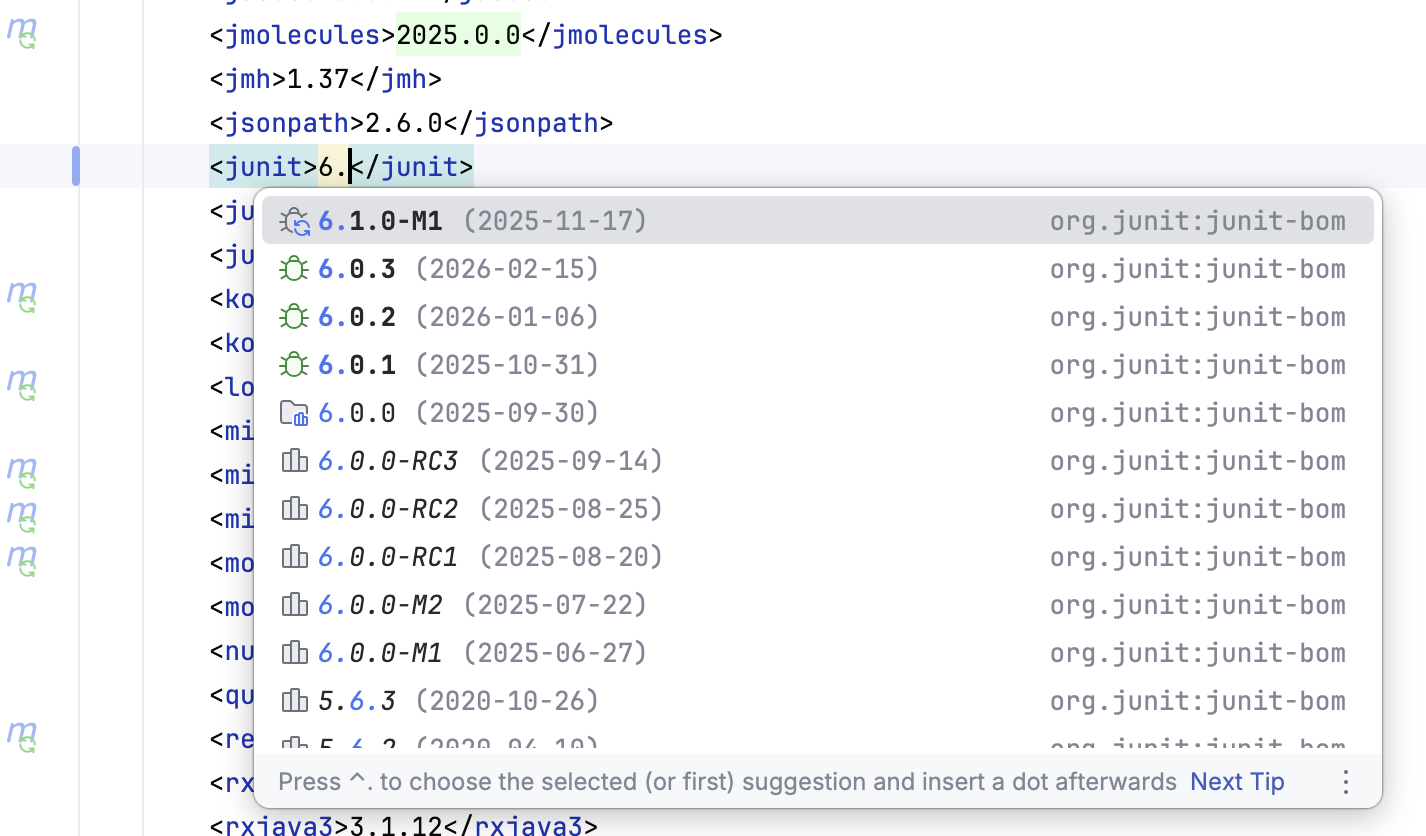
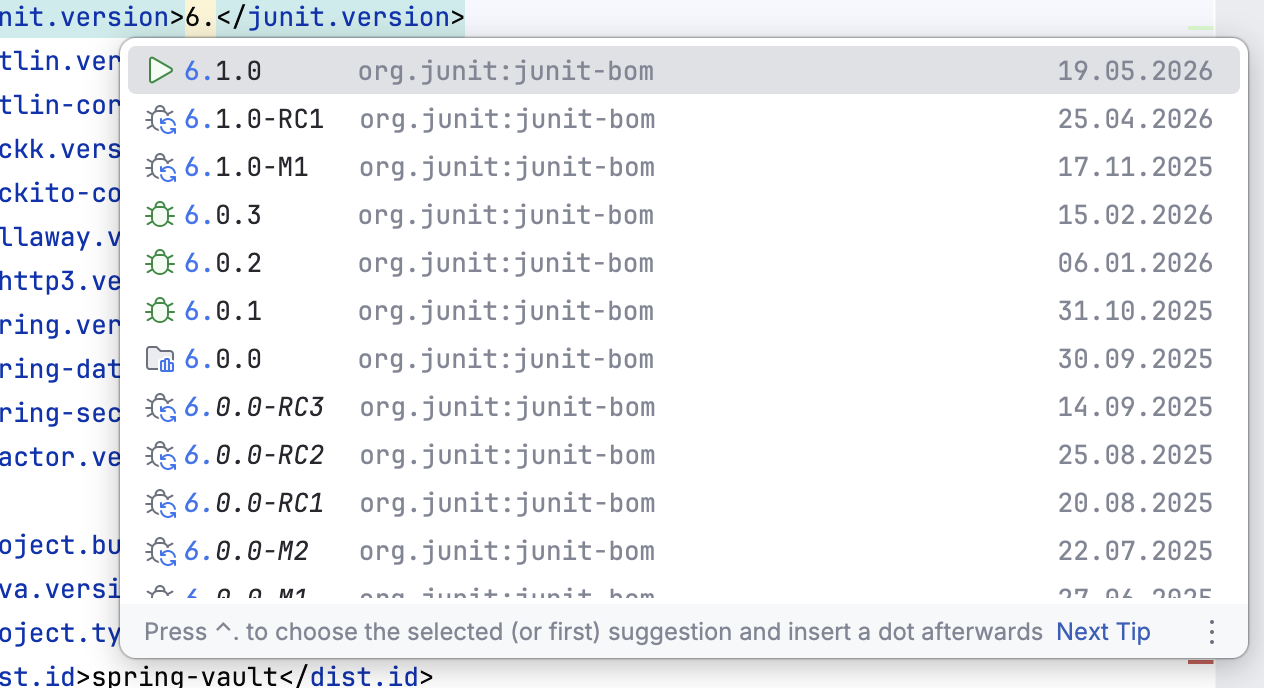
Polishing.
Update docs, refine version age icon rendering, include dependency name in ArtifactReleaseRenderer.

Changed region(s): [[0.0, 0.0, 1.0, 1.0], [0.0, 0.3358, 0.0926, 0.3663]]

diff --git a/src/main/java/biz/paluch/dap/assistant/ArtifactReleaseRenderer.java b/src/main/java/biz/paluch/dap/assistant/ArtifactReleaseRenderer.java
@@ -21,16 +21,12 @@ import java.time.LocalDateTime;
 
 import javax.swing.Icon;
 
-import biz.paluch.dap.DependencyAssistantIcons;
 import biz.paluch.dap.InterfaceAssistant;
-import biz.paluch.dap.artifact.ArtifactId;
 import biz.paluch.dap.artifact.ArtifactRelease;
 import biz.paluch.dap.artifact.ArtifactVersion;
-import biz.paluch.dap.artifact.Dependency;
 import biz.paluch.dap.artifact.GitRef;
 import biz.paluch.dap.artifact.GitVersion;
-import biz.paluch.dap.artifact.VersionAge;
-import biz.paluch.dap.artifact.VersionAware;
+import biz.paluch.dap.artifact.Versioned;
 import biz.paluch.dap.rule.DependencyRule;
 import biz.paluch.dap.support.ReleaseDateFormatter;
 import biz.paluch.dap.util.StringUtils;
@@ -46,6 +42,8 @@ import org.jspecify.annotations.Nullable;
  */
 public class ArtifactReleaseRenderer extends LookupElementRenderer<LookupElement> {
 
+	private static final int MAX_VERSION_LENGTH_PADDING = 15;
+
 	private final ReleaseDateFormatter formatter = ReleaseDateFormatter.create();
 
 	private final InterfaceAssistant assistant;
@@ -53,6 +51,8 @@ public class ArtifactReleaseRenderer extends LookupElementRenderer<LookupElement
 	private final @Nullable ArtifactVersion currentVersion;
 
 	private final DependencyRule rule;
+
+	private int versionLength = 0;
 
 	public ArtifactReleaseRenderer(InterfaceAssistant assistant, @Nullable ArtifactVersion currentVersion, DependencyRule rule) {
 		this.assistant = assistant;
@@ -72,8 +72,22 @@ public class ArtifactReleaseRenderer extends LookupElementRenderer<LookupElement
 			return;
 		}
 
-		ArtifactVersion version = VersionAware.getVersion(release);
-		presentation.setItemText(release.getVersion().toString());
+		ArtifactVersion version = Versioned.of(release).unwrap();
+		String itemText = version.toString();
+		presentation.setItemText(itemText);
+
+		EvaluatedDependencyRule evaluated = EvaluatedDependencyRule.of(rule, release.artifactId(), version, assistant);
+		String dependencyName = evaluated.getDependencyName();
+
+		String tailText;
+		if (itemText.length() < MAX_VERSION_LENGTH_PADDING) {
+			int padding = this.versionLength - itemText.length();
+			tailText = " ".repeat(padding) + " " + dependencyName;
+		} else {
+			tailText = " " + dependencyName;
+		}
+
+		presentation.setTailText(tailText);
 
 		String typeText = "";
 		LocalDateTime releaseDate = release.getReleaseDate();
@@ -99,24 +113,19 @@ public class ArtifactReleaseRenderer extends LookupElementRenderer<LookupElement
 			}
 		}
 
-		if (rule.isPresent() && !rule.test(release.getVersion())) {
-			presentation.setIcon(DependencyAssistantIcons.DEPENDENCY_RULE_WARN);
+		boolean valid = !rule.isPresent() || rule.test(release.getVersion());
+
+		if (!valid) {
 			presentation.setStrikeout(true);
 		}
-		else {
-			presentation.setIcon(getIcon(release.artifactId(), version));
-		}
+
+		Icon icon = ModelUtil.getIcon(evaluated, currentVersion, release.getVersion());
+		presentation.setIcon(icon);
 	}
 
-	private Icon getIcon(ArtifactId artifactId, ArtifactVersion version) {
-		if (version.isPreview()) {
-			return VersionAge.PREVIEW.getIcon();
-		}
-		if (currentVersion != null) {
-			VersionAge versionAge = VersionAge.between(currentVersion, version);
-			return versionAge.getIcon();
-		}
-		return assistant.getTableIcon(new Dependency(artifactId, currentVersion));
-	}
+	public void withVersion(ArtifactRelease release) {
 
+		ArtifactVersion version = Versioned.of(release).unwrap();
+		this.versionLength = Math.max(version.toString().length(), versionLength);
+	}
 }

diff --git a/src/main/java/biz/paluch/dap/assistant/ModelUtil.java b/src/main/java/biz/paluch/dap/assistant/ModelUtil.java
@@ -16,9 +16,14 @@
 
 package biz.paluch.dap.assistant;
 
+import javax.swing.Icon;
 import javax.swing.JTable;
 
+import biz.paluch.dap.DependencyAssistantIcons;
+import biz.paluch.dap.artifact.ArtifactVersion;
+import biz.paluch.dap.artifact.VersionAge;
 import com.intellij.util.ui.SortableColumnModel;
+import org.jspecify.annotations.Nullable;
 
 /**
  * Utility methods for working with table models.
@@ -35,5 +40,43 @@ class ModelUtil {
 	static UpgradeCandidate getRow(JTable table, int viewRow) {
 		int modelRow = table.convertRowIndexToModel(viewRow);
 		return (UpgradeCandidate) ((SortableColumnModel) table.getModel()).getRowValue(modelRow);
+	}
+
+	/**
+	 * Obtain the icon for the version option (dialog or completion.
+	 * @param rule the evaluated rule.
+	 * @param currentVersion current artifact version.
+	 * @param candidate candidate version.
+	 * @return the icon to use.
+	 */
+	public static Icon getIcon(EvaluatedDependencyRule rule, @Nullable ArtifactVersion currentVersion,
+			ArtifactVersion candidate) {
+
+		if (!rule.test(candidate)) {
+			return DependencyAssistantIcons.DEPENDENCY_RULE_WARN;
+		}
+
+		if (currentVersion == null) {
+			if (rule.isPresent() && rule.isLocked()) {
+				return VersionAge.RULE_COMPLIANT;
+			}
+
+			if (candidate.isPreview()) {
+				return VersionAge.PREVIEW.getIcon();
+			}
+			return VersionAge.OLDER.getIcon();
+		}
+
+		VersionAge age = VersionAge.between(currentVersion, candidate.getVersion());
+		if (rule.isPresent() && age == VersionAge.OLDER && rule.isLocked()) {
+			return VersionAge.RULE_COMPLIANT;
+		}
+
+		if (candidate.isPreview()) {
+			return VersionAge.PREVIEW.getIcon();
+		}
+
+		VersionAge versionAge = VersionAge.between(currentVersion, candidate);
+		return versionAge.getIcon();
 	}
 }

diff --git a/src/main/java/biz/paluch/dap/artifact/VersionAware.java b/src/main/java/biz/paluch/dap/artifact/VersionAware.java
@@ -38,23 +38,4 @@ public interface VersionAware {
 	 */
 	ArtifactVersion getVersion();
 
-	/**
-	 * Return the normalized artifact version exposed by the given object.
-	 *
-	 * <p>
-	 * The returned version follows {@link ArtifactVersion#getVersion()} through
-	 * the wrapper layers used by this package, such as {@link GitVersion} or
-	 * prefixed versions. Use the normalized value when comparing or grouping the
-	 * underlying version and wrapper metadata such as prefixes or SHAs should be
-	 * ignored.
-	 *
-	 * @param hasVersion the object that carries the version; must not be
-	 * {@literal null}.
-	 * @return the normalized artifact version; guaranteed to be not
-	 * {@literal null}.
-	 */
-	public static ArtifactVersion getVersion(VersionAware hasVersion) {
-		return hasVersion.getVersion().getVersion().getVersion();
-	}
-
 }

diff --git a/src/main/java/biz/paluch/dap/artifact/VersionAge.java b/src/main/java/biz/paluch/dap/artifact/VersionAge.java
@@ -19,6 +19,7 @@ package biz.paluch.dap.artifact;
 import javax.swing.Icon;
 
 import com.intellij.icons.AllIcons;
+import com.intellij.openapi.util.ScalableIcon;
 
 /**
  * Coarse presentation category for a candidate artifact version.
@@ -80,7 +81,13 @@ public enum VersionAge {
 	 */
 	RELEASE,
 
+	/**
+	 * Align with dependency rule.
+	 */
 	RULE;
+
+
+	public static final Icon RULE_COMPLIANT = ((ScalableIcon) AllIcons.Actions.InlaySecuredShield).scale(1.3f);
 
 	/**
 	 * Return the presentation category for the given upgrade strategy.
@@ -99,7 +106,7 @@ public enum VersionAge {
 		case MAJOR, LATEST -> NEWER_MAJOR;
 		case PREVIEW -> PREVIEW;
 		case RELEASE -> RELEASE;
-			case RULE -> RULE;
+		case RULE -> RULE;
 		};
 	}
 
@@ -167,7 +174,7 @@ public enum VersionAge {
 		case NEWER_MAJOR -> AllIcons.Actions.RunAll;
 		case PREVIEW -> AllIcons.Debugger.DebuggerSync;
 		case SAME_OR_UNKNOWN -> AllIcons.Nodes.PpLibFolder;
-			case RULE -> AllIcons.Actions.QuickfixBulb;
+		case RULE -> RULE_COMPLIANT;
 		};
 	}
 
@@ -183,7 +190,7 @@ public enum VersionAge {
 		case NEWER_MAJOR -> "AllIcons.Actions.RunAll";
 		case PREVIEW -> "AllIcons.Debugger.DebuggerSync";
 		case SAME_OR_UNKNOWN -> "AllIcons.Nodes.PpLibFolder";
-			case RULE -> "AllIcons.Actions.QuickfixBulb";
+		case RULE -> "AllIcons.Actions.InlaySecuredShield";
 		};
 	}
 

diff --git a/src/main/java/biz/paluch/dap/artifact/Versioned.java b/src/main/java/biz/paluch/dap/artifact/Versioned.java
@@ -46,6 +46,18 @@ import org.springframework.util.Assert;
 public interface Versioned extends VersionAware {
 
 	/**
+	 * Create a versioned container for the given {@link VersionAware}.
+	 *
+	 * @param aware the version-aware object; must not be {@literal null}.
+	 * @return a {@link Versioned} instance whose {@link #isVersioned()} returns
+	 * {@literal true}.
+	 */
+	static Versioned of(VersionAware aware) {
+		Assert.notNull(aware, "VersionAware must not be null");
+		return of(aware.getVersion());
+	}
+
+	/**
 	 * Create a versioned container for the given artifact version.
 	 *
 	 * @param artifactVersion the version to wrap; must not be {@literal null}.

diff --git a/src/main/java/biz/paluch/dap/assistant/DependencyCheckDialog.java b/src/main/java/biz/paluch/dap/assistant/DependencyCheckDialog.java
@@ -48,6 +48,7 @@ import biz.paluch.dap.artifact.UpgradeStrategy;
 import biz.paluch.dap.artifact.VersionAge;
 import biz.paluch.dap.artifact.VersionSource;
 import biz.paluch.dap.artifact.Versioned;
+import biz.paluch.dap.rule.DependencyRule;
 import biz.paluch.dap.support.MessageBundle;
 import biz.paluch.dap.support.ReleaseDateFormatter;
 import biz.paluch.dap.util.BetterPsiManager;
@@ -1218,10 +1219,12 @@ public class DependencyCheckDialog extends DialogWrapper {
 				text += " (" + formatter.format(value.releaseDate()) + ")";
 			}
 
-			boolean valid = candidate.getRule().test(value.getVersion());
+			DependencyRule rule = candidate.getRule();
+			boolean valid = rule.test(value.getVersion());
 			append(text, valid ? SimpleTextAttributes.REGULAR_ATTRIBUTES : SimpleTextAttributes.GRAYED_ATTRIBUTES);
-			setIcon(valid ? VersionAge.between(candidate.getCurrentVersion(), value.getVersion()).getIcon()
-					: DependencyAssistantIcons.DEPENDENCY_RULE_WARN);
+			EvaluatedDependencyRule evaluated = candidate.evaluate(value.getVersion());
+
+			setIcon(ModelUtil.getIcon(evaluated, candidate.getCurrentVersion(), value.getVersion()));
 		}
 
 	}

diff --git a/src/main/java/biz/paluch/dap/assistant/ReleaseCompletionProvider.java b/src/main/java/biz/paluch/dap/assistant/ReleaseCompletionProvider.java
@@ -131,6 +131,10 @@ public class ReleaseCompletionProvider extends CompletionProvider<CompletionPara
 		ArtifactReleaseRenderer renderer = new ArtifactReleaseRenderer(metadata.context()
 				.getInterfaceAssistant(), metadata.currentVersion(), rule);
 
+		for (ArtifactRelease release : releases) {
+			renderer.withVersion(release);
+		}
+
 		List<LookupElement> elements = new ArrayList<>();
 		double priority = releases.size();
 		for (ArtifactRelease release : releases) {

diff --git a/src/main/java/biz/paluch/dap/assistant/UpgradeCandidate.java b/src/main/java/biz/paluch/dap/assistant/UpgradeCandidate.java
@@ -265,6 +265,10 @@ class UpgradeCandidate implements HasArtifactId {
 		return getArtifactId() + "@" + getCurrentVersion();
 	}
 
+	public EvaluatedDependencyRule evaluate(ArtifactVersion version) {
+		return EvaluatedDependencyRule.of(getRule(), getArtifactId(), version, interfaceAssistant);
+	}
+
 	/**
 	 * Artifact identity rendering a friendly dependency name for notifications.
 	 */

diff --git a/src/main/java/biz/paluch/dap/maven/MavenArtifactReferenceResolver.java b/src/main/java/biz/paluch/dap/maven/MavenArtifactReferenceResolver.java
@@ -191,7 +191,8 @@ class MavenArtifactReferenceResolver implements ArtifactReferenceResolver {
 	 * them. Completion and documentation pre-unleaf to this same text node.
 	 */
 	private boolean isResolvableElement(PsiElement element) {
-		return element.isValid() && element instanceof XmlText;
+		return element.isValid() && (element instanceof XmlText
+				|| element instanceof XmlTag tag && StringUtils.isEmpty(tag.getValue().getText()));
 	}
 
 	private ArtifactReference resolveDirect(XmlTag versionTag) {